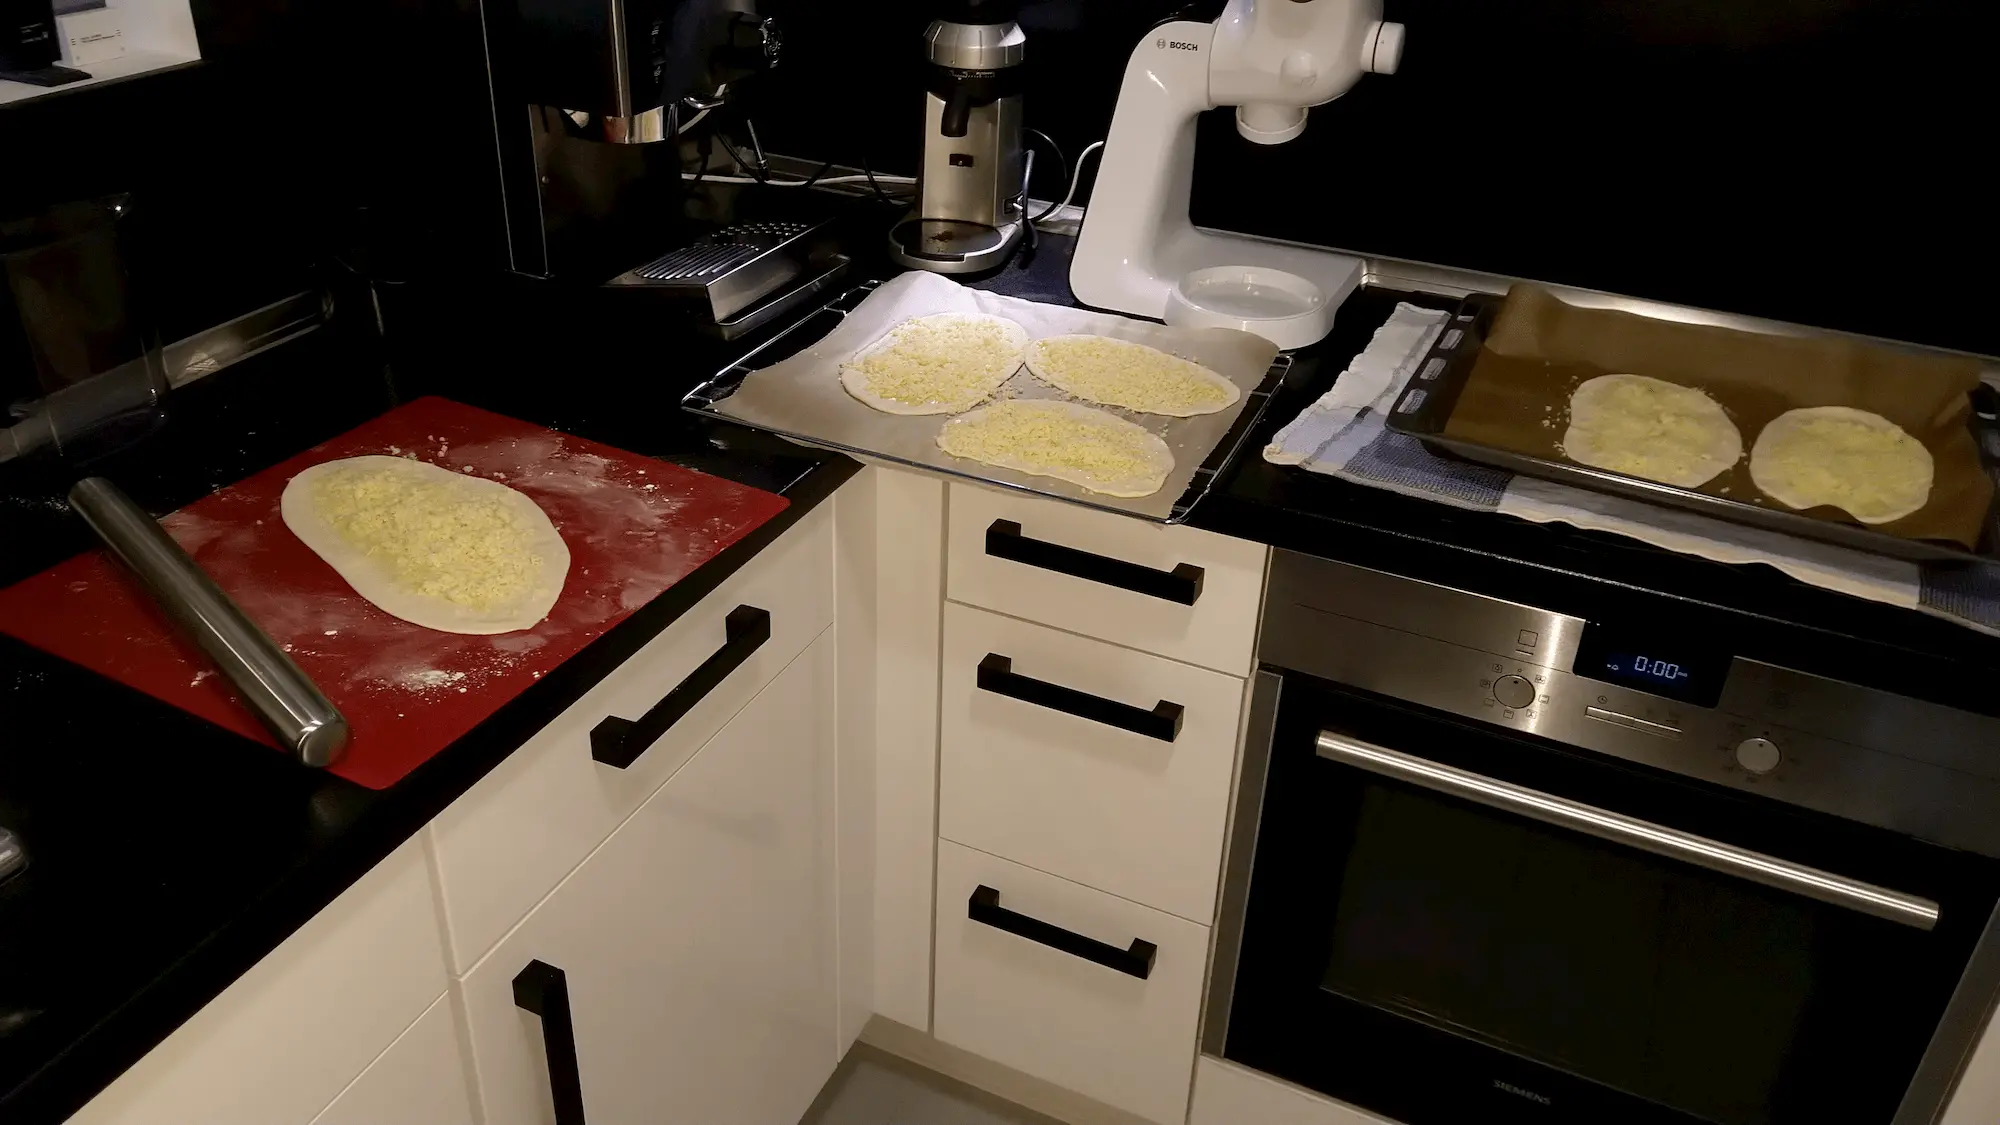
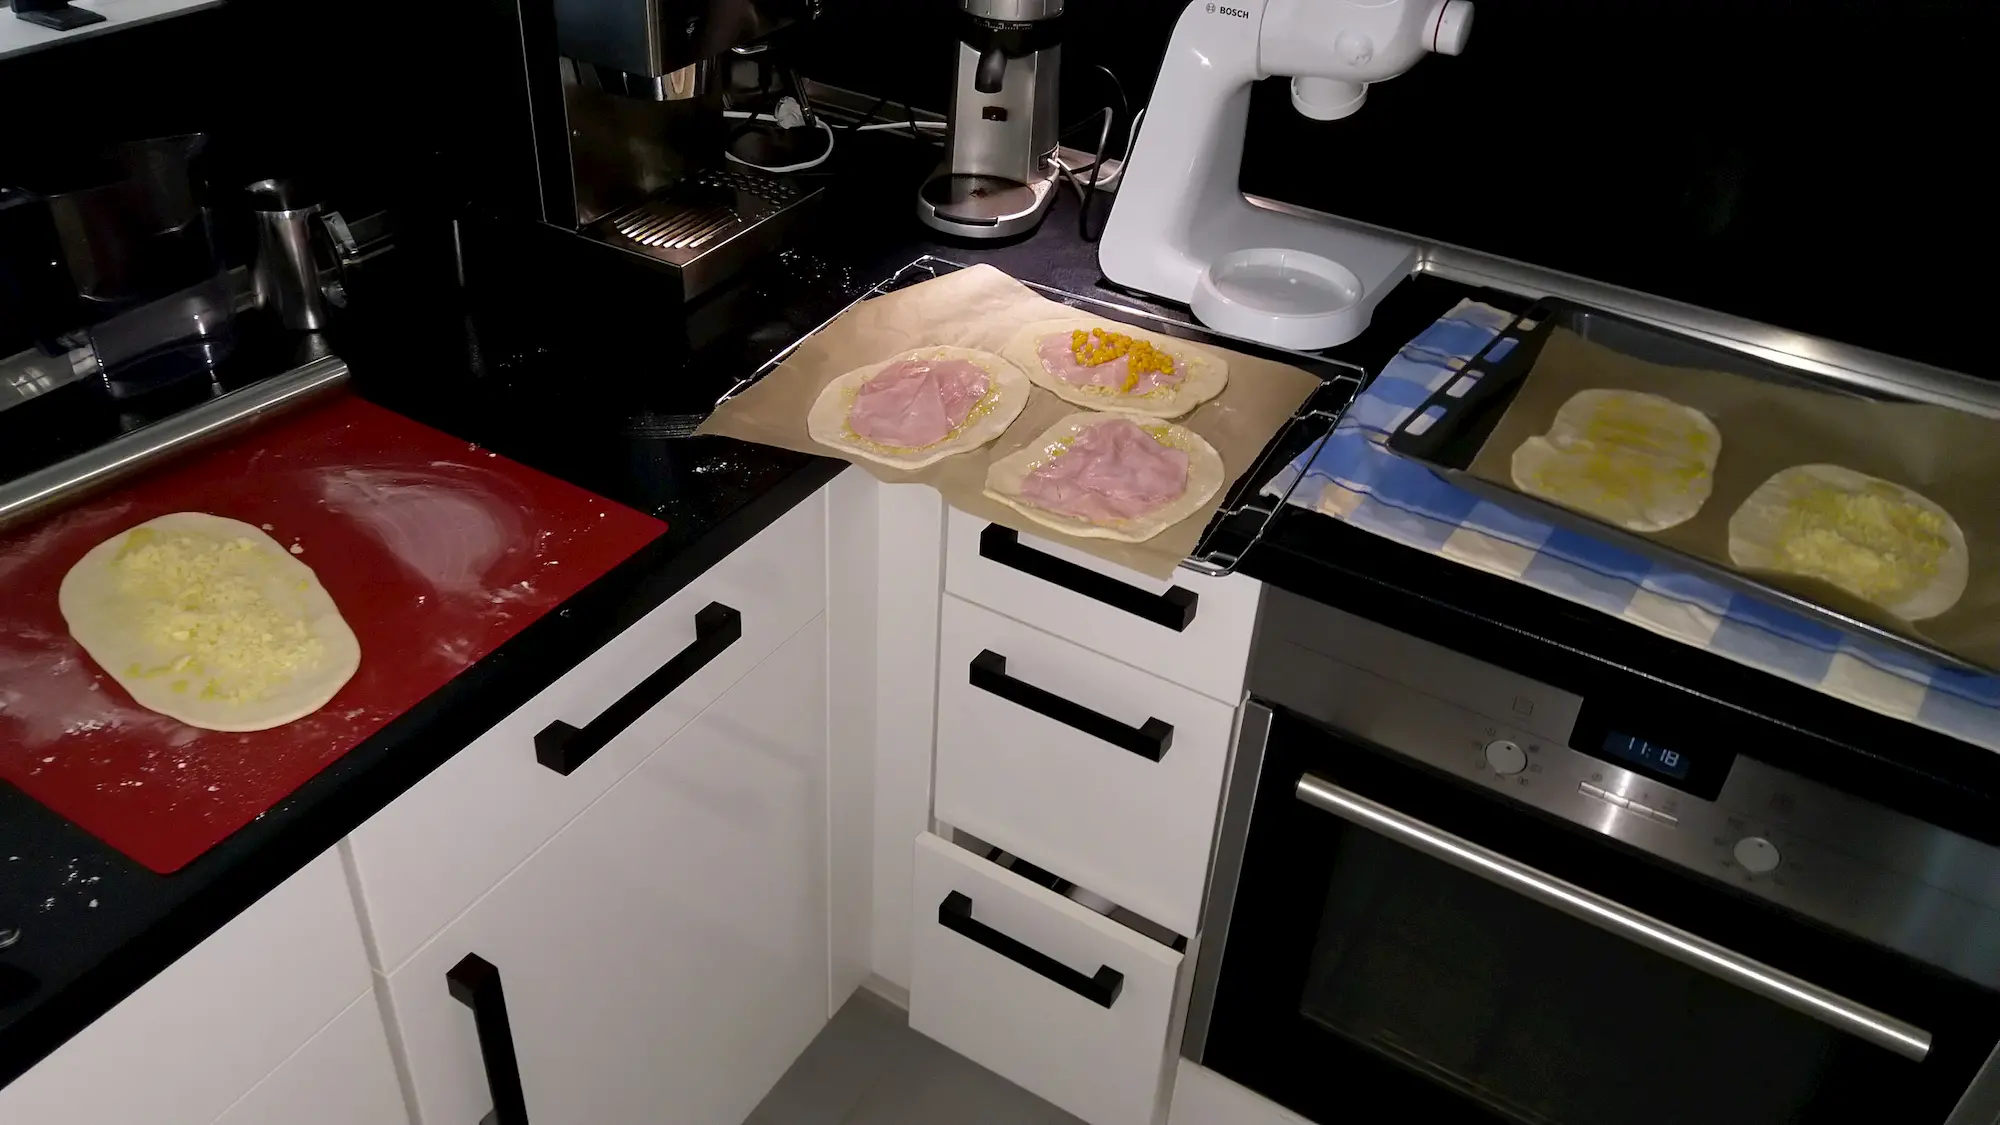
semmeln und knoblauchstangerl update

diff --git a/_recipes/knoblauchstangerl.md b/_recipes/knoblauchstangerl.md
@@ -6,7 +6,7 @@ category: BrotGebaeck
 
 images:
   - image: ../images/knoblauchstangerl_ausgerollt.webp
-    description: Ausgerollte Knoblauchstangerl nachdem sie befüllt wurden (mit 250g Käse)
+    description: Ausgerollte Knoblauchstangerl nachdem sie befüllt wurden (1x nur Knoblauch, 2x +Käse, 2x +Schinken, 1x +Mais). Knoblauch, Käse, Schinken, Mais war fast am Besten!
   - image: ../images/knoblauchstangerl_vorm_backen.webp
     description: Zusammengerollte und länglich ausgerollte Stangerl vor dem Backen
 
@@ -17,22 +17,22 @@ ingredients:
   - 1/2 Hefewürfel
   - 210g lauwarmes Wasser
   - "Knoblauchpaste: 4 Knoblauchzehen gepresst (ca 22g), 30g Olivenöl, 2g Salz"
-  - 250g Emmentaler gerieben
+  - 100g Emmentaler gerieben
   - Sesam zum Bestreuen
 
 directions:
-  - Alle Zutaten in Küchenmaschine geben und ca 3min langsam kneten, danach 5min intensiver kneten.
-  - Teig in Schüssel zugedeckt 15min gehen lassen
-  - Während man wartetKnoblauchpaste vorbereiten (4 Knoblauchzehen pressen und mit Olivenöl und Salz vermischen) und 250g Käse reiben
-  - Teig auf bemehlte Arbeitsfläche rauskippen und 6 Stk formen u mit Handrücken Kugeln rollen (wie bei Semmeln etc) und 5min rasten lassen
-  - Anschließend die Kugeln auf bemehlter Arbeitsfläche zu flachen Teigfladen ausrollen und die Knoblauchpaste darauf verteilen und Pizzakäse darauf verteilen
-  - Danach von oben nach unten einrollen, schauen dass die Spannung erhalten bleibt (Teig evtl dabei nach unten ziehen) und etwas in die Seite ziehen (damit die Ränder wie Salzstangerl aussehen).
-  - Anschließend alle Stangerl nochmal mit den Händen ausrollen bis sie so breit wie das Backblech sind.
+  - Alle Zutaten in Küchenmaschine geben und ca 2min langsam kneten, danach 5min intensiver kneten.
+  - Teig in Schüssel zugedeckt 15min gehen lassen (Teigkugel etwas bemehlen damit sie nachher leichter aus der Schüssel geht)
+  - Während man wartet, Knoblauchpaste vorbereiten (4 Knoblauchzehen pressen und mit Olivenöl und Salz vermischen) und 250g Käse reiben
+  - Teig auf bemehlte Arbeitsfläche rauskippen, in 6 Stk zerteilen und Kugeln formen (wie bei Semmeln etc) und 5min rasten lassen
+  - Anschließend die Kugeln auf bemehlter Arbeitsfläche zu flachen Teigfladen ausrollen und zunächst die Knoblauchpaste, dann den Käse darauf verteilen
+  - Danach von oben nach unten einrollen. Dabei die Spannung erhalten und die Teigrolle beim rollen etwas zu den Rändern rausziehen (damit die Ränder wie Salzstangerl aussehen).
+  - Anschließend alle Stangerl nochmal mit den Händen flach rollen bis sie so breit wie das Backblech sind.
   - Mit Wasser besprühen und mit Sesam bestreuen.
-  - Backrohr auf 220°C Heißluft vorheizen und ein Häferl Wasser reinstellen. Wenn vorgeheizt, Stangerl nochmal besprühen und für ca 20min ins Backrohr geben
+  - Backrohr auf 220°C Heißluft vorheizen und ein Häferl Wasser reinstellen. Wenn vorgeheizt, Stangerl nochmal besprühen und für 18-20min ins Backrohr geben
 ---
 
-1. Versuch war sehr gut. Ganz was eigenes. Speziell in der Mitte aber zuviel Käse und in Summe zu fettig. Nächstes mal evtl nur 100g Käse wenn überhaupt nehmen, evtl auch weniger Olivenöl zu Knoblauch geben bzw mehr Knoblauch nehmen? Evtl auch mit Salami etc befüllen
+Nächstes mal evtl 120g Käse? letztes mal hab ich nur 5 befüllt da waren 100g ok. Evtl auch mit Salami etc befüllen
 
 Man kann sicherlich beliebige Dinge einfüllen wie Tomatensauce, Paprika, Mais, ... ähnlich wie Pizza
 Oder auch gar nichts, dann hat man Salzstangerl (ohne länglich ausrollen)

diff --git a/_recipes/semmeln.md b/_recipes/semmeln.md
@@ -7,6 +7,8 @@ category: BrotGebaeck
 images:
   - image: ../images/semmeln_handsemmeln.webp
     description: Versuch 1 Handsemmeln. geformte Teigkugeln 15min rasten lassen, dann formen, nochmal 25min im Backrohr rasten lassen, rausnehmen, vorheizen, einsprühen, backen
+  - image: ../images/semmeln_langsemmeln.webp
+    description: Versuch 1 Langsemmeln. sehr gut, evtl noch fester mit Messergriff reindrücken oder danach stärker bemehlen, damit Spalt besser erhalten bleibt
   - image: ../images/semmeln_vollkorn.webp
     description: Variante mit 150g Vollkorn Weizenmehl, 100g normales Weizenmehl
   - image: ../images/semmeln_teig_kuehschrank.webp
